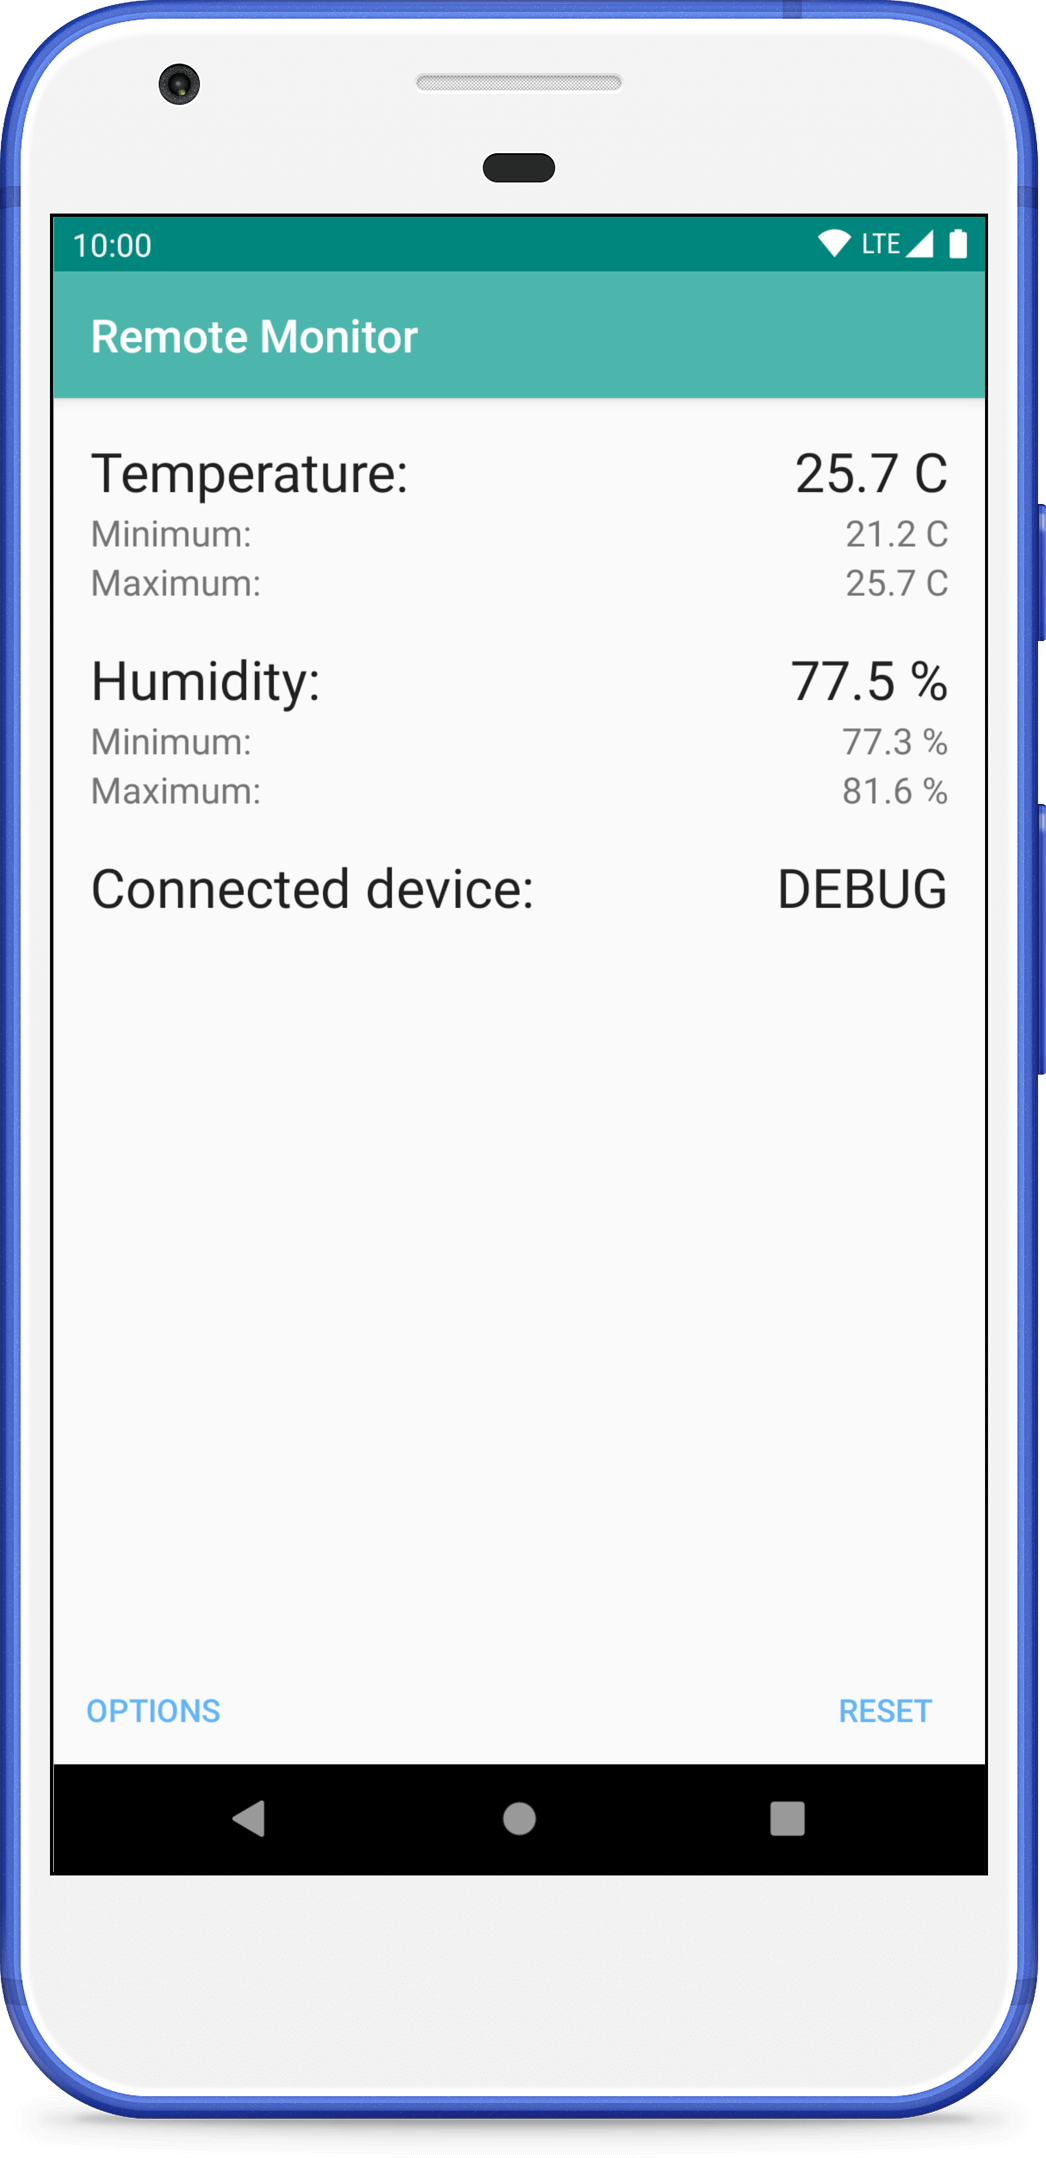
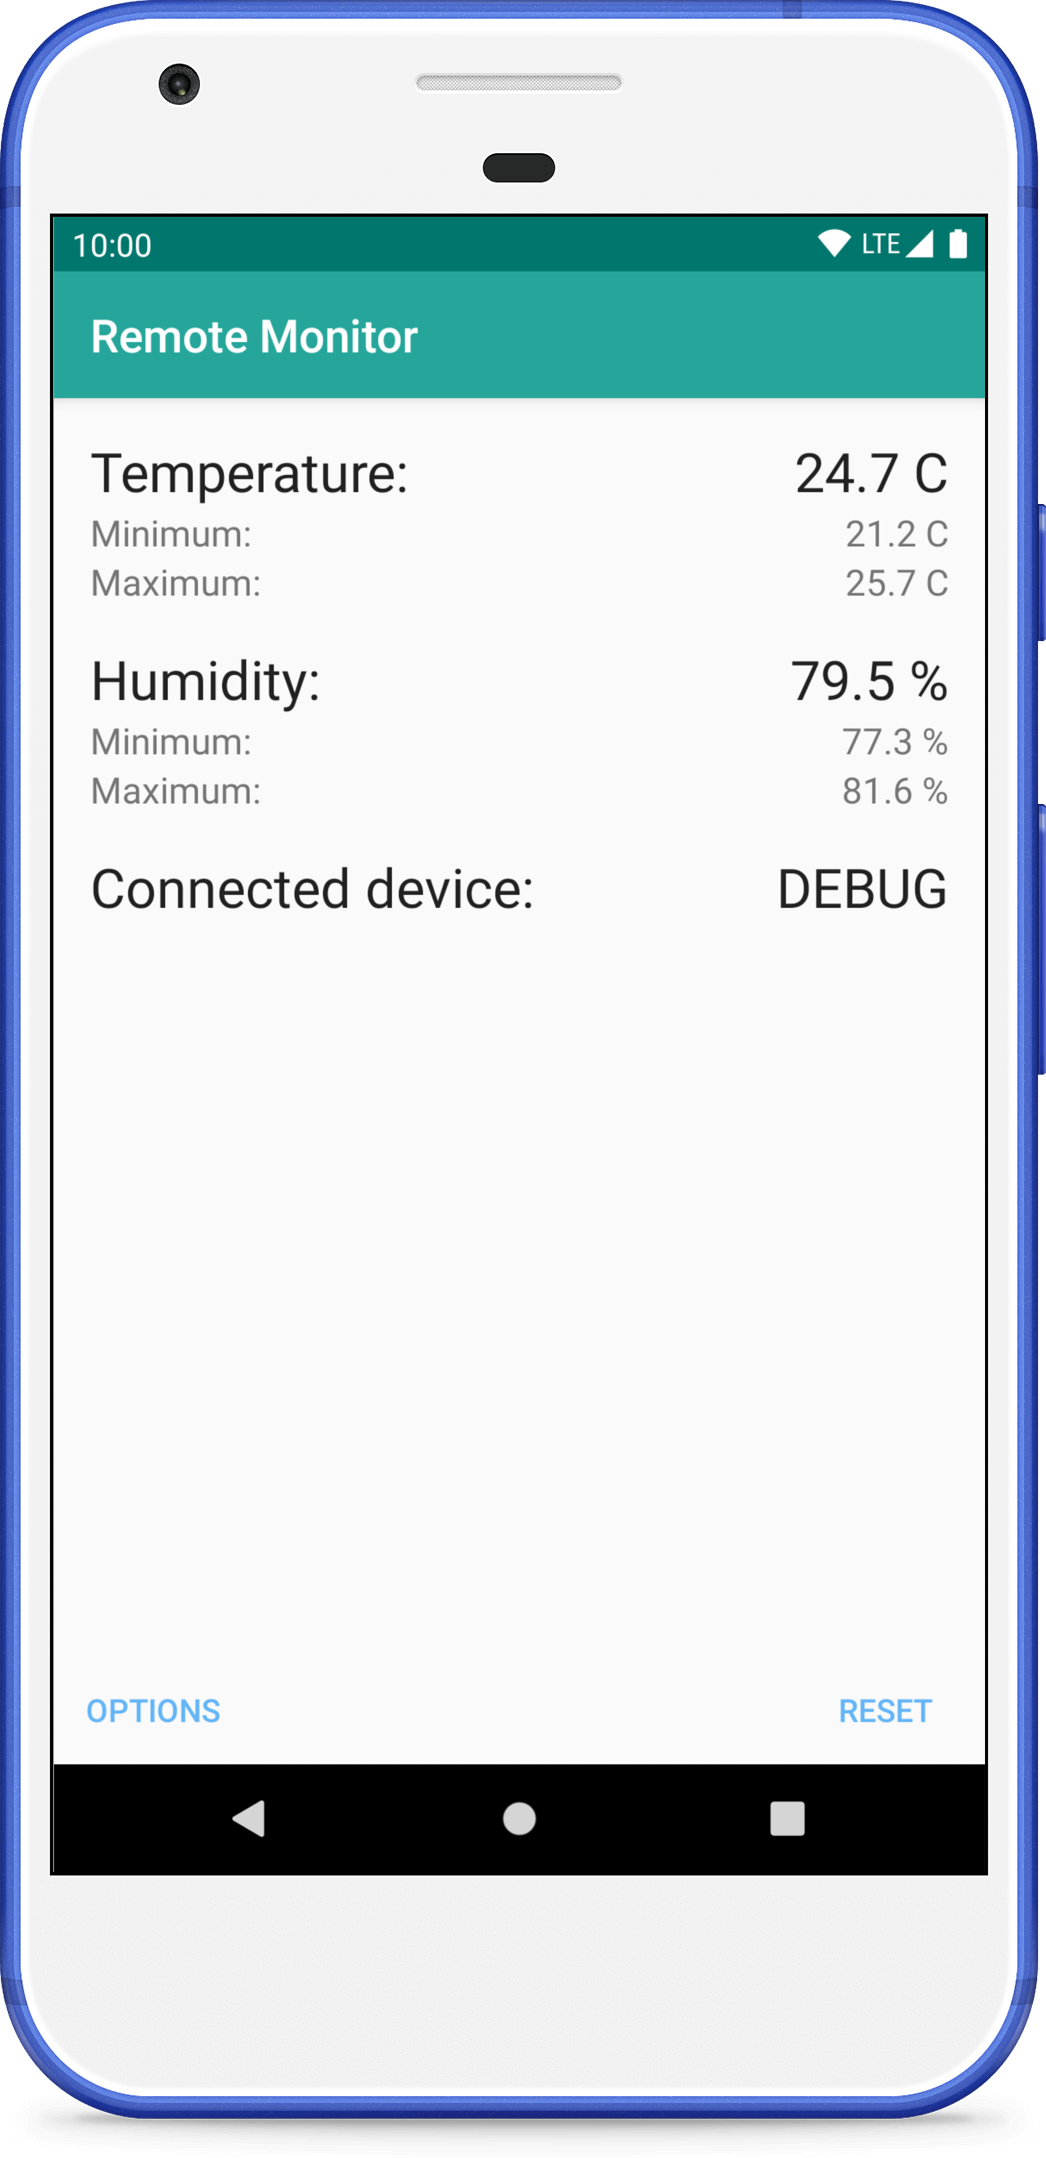
2020-03-30 Version 1.3.5: Closed #2 and updated app theme

diff --git a/app/src/main/java/com/smlnskgmail/jaman/remotetemperaturecontrol/components/BaseBottomSheet.kt b/app/src/main/java/com/smlnskgmail/jaman/remotetemperaturecontrol/components/BaseBottomSheet.kt
@@ -5,6 +5,7 @@ import android.view.LayoutInflater
 import android.view.View
 import android.view.ViewGroup
 import com.google.android.material.bottomsheet.BottomSheetDialogFragment
+import com.smlnskgmail.jaman.remotetemperaturecontrol.R
 
 abstract class BaseBottomSheet : BottomSheetDialogFragment() {
 
@@ -28,5 +29,9 @@ abstract class BaseBottomSheet : BottomSheetDialogFragment() {
     )
 
     abstract fun getLayoutResId(): Int
+
+    override fun getTheme(): Int {
+        return R.style.AppBottomSheetStyle
+    }
 
 }
